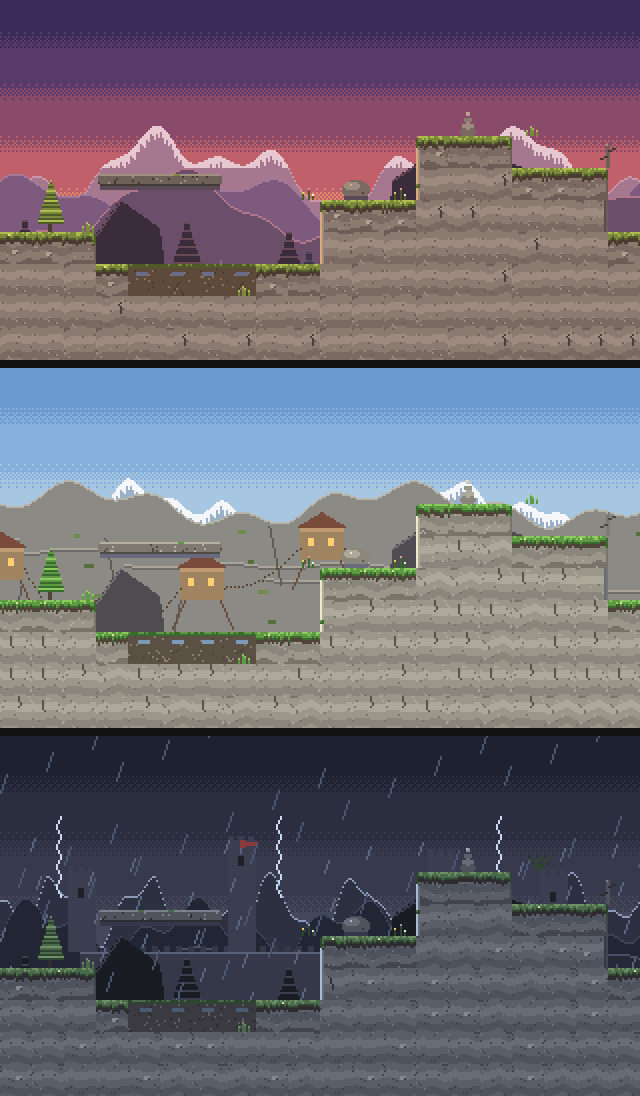
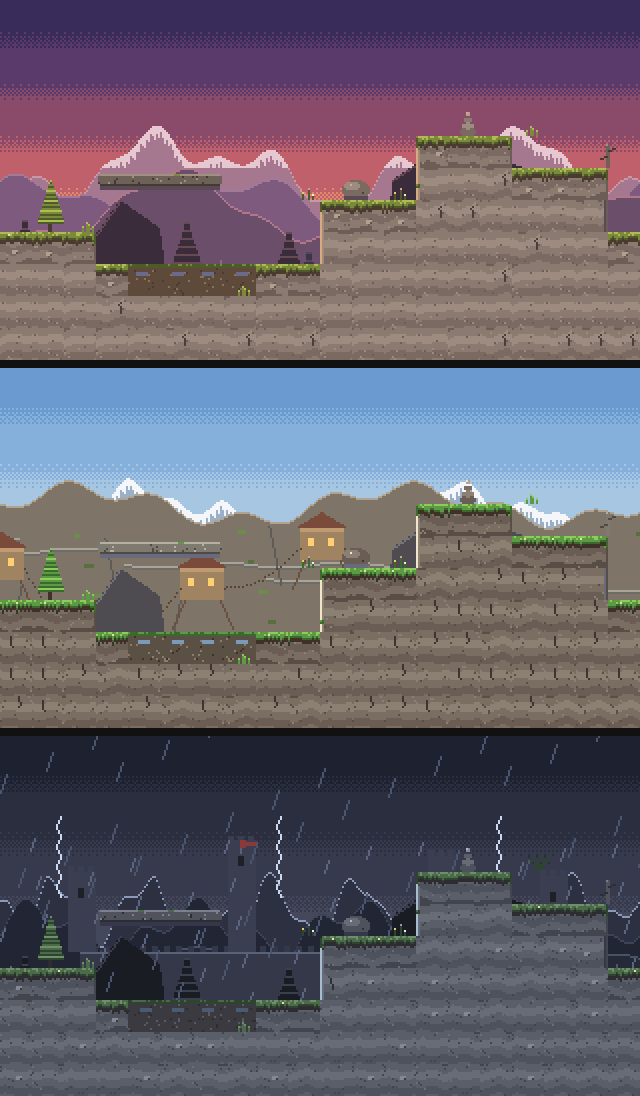
ART DIRECTION: TEN RULES MEASURED FROM THE LEVELS THAT LOOK FINISHED
tools/art-rules.py measures a screen's value spread, playfield/backdrop separation, chroma and warmth;
the best levels against the weak (42.6 vs 30.8 spread, 9.6 vs 4.8 separation, neutral vs cool).
docs/art-direction.md turns that into ten rules. They caught four of the redress passes, now fixed:
the Hanging Village's rock, the Undercrown's colour, Highcrown's torchlight, the forest store's floor.

Changed region(s): [[0.0, 0.4343, 1.0, 0.6825]]

diff --git a/src/redraw/redress2.js b/src/redraw/redress2.js
@@ -28,10 +28,10 @@ const arch = (g, x, y, w, h, col) => { rect(g, x, y + (w >> 1), w, h - (w >> 1),
 
 export const REDRESS_PAL = {
   castle: { stone: '#5e6878', stoneL: '#7a8698', stoneD: '#465060', mortar: '#343a46', floor: '#6a6e7a', floorL: '#8a8e9a', floorD: '#4a4e5a', rug: '#7a2a4a', rugL: '#a83e62', gold: '#d8b048', banner: '#6a2a5a', bannerL: '#9a3e84', torch: '#ffb85a', night: '#1a1e36', moon: '#e8ecff', plank: '#5e6878', plankL: '#8a94a4', plankD: '#343a46' },
-  undercrown: { stone: '#4e4640', stoneL: '#6a6058', stoneD: '#3a332e', mortar: '#26201c', floor: '#4a3e34', floorL: '#6a5a4a', floorD: '#2e2620', root: '#5a4632', rootL: '#7e6448', timber: '#6a5236', timberL: '#8e7050', timberD: '#3e2e1e', drip: '#6a8a9a', lamp: '#ffc860', plank: '#6a5236', plankL: '#8e7050', plankD: '#3e2e1e' },
+  undercrown: { stone: '#4e4640', stoneL: '#6a6058', stoneD: '#3a332e', mortar: '#26201c', floor: '#5a4430', floorL: '#86684a', floorD: '#34281e', root: '#7a4a32', rootL: '#a0643e', timber: '#6a5236', timberL: '#8e7050', timberD: '#3e2e1e', drip: '#6a8a9a', lamp: '#ffc860', plank: '#6a5236', plankL: '#8e7050', plankD: '#3e2e1e' },
   mage: { wall: '#2a2244', wallL: '#3a3058', wallD: '#1c1630', wood: '#4a3024', woodL: '#6a4630', woodD: '#2e1e16', books: ['#8a2a3a', '#2a5a8a', '#3a7a4a', '#9a7a2a', '#6a3a8a', '#8a5a3a'], gold: '#e8c24a', candle: '#fff0b0', flame: '#ffb84a', moon: '#dfe6ff', window: '#3a4a88' },
   monastery: { stone: '#d8c8a8', stoneL: '#f0e4c8', stoneD: '#a8987c', roof: '#8a3a2a', roofL: '#b04e36', flags: ['#e8c24a', '#c84a3a', '#3a8ac8', '#4aa86a', '#f0f0e0'], pine: '#2e5a3e', pineL: '#447a52', cloud: '#f4f6fa', cloudD: '#c8d4e4' },
-  shopWood: { wall: '#6a4a30', wallL: '#8a6440', wallD: '#4a3220', floor: '#7a5a3a', floorL: '#9a7650', floorD: '#4e3a26', shelf: '#5a3e28', stone: '#6e5a48', stoneL: '#8a7460', stoneD: '#4e3e32', mortar: '#3a2c22', plank: '#7a5a3a', plankL: '#9a7650', plankD: '#4e3a26', lamp: '#ffc860' },
+  shopWood: { wall: '#4e3622', wallL: '#6a4a30', wallD: '#36241a', floor: '#b08a58', floorL: '#d0aa72', floorD: '#7a5a3a', shelf: '#5a3e28', stone: '#6e5a48', stoneL: '#8a7460', stoneD: '#4e3e32', mortar: '#3a2c22', plank: '#7a5a3a', plankL: '#9a7650', plankD: '#4e3a26', lamp: '#ffc860' },
   shopCrag: { wall: '#5e5a60', wallL: '#7a7680', wallD: '#44404a', floor: '#6a6468', floorL: '#8a8488', floorD: '#48444a', shelf: '#5a4232', stone: '#5e5a60', stoneL: '#7a7680', stoneD: '#44404a', mortar: '#2e2c32', plank: '#6a6468', plankL: '#8a8488', plankD: '#48444a', lamp: '#ffc860' },
   shopSea: { wall: '#4a5a62', wallL: '#627680', wallD: '#34424a', floor: '#7a6448', floorL: '#9a8260', floorD: '#4e3e2c', shelf: '#5a4230', stone: '#4a5a62', stoneL: '#627680', stoneD: '#34424a', mortar: '#26303a', plank: '#7a6448', plankL: '#9a8260', plankD: '#4e3e2c', lamp: '#ffd070', brass: '#c8a040' },
 };
@@ -76,12 +76,17 @@ export function bakeRedressFar(theme) {
       circle(g, x + 7, 44, 4, P.moon); for (let k = 0; k < 5; k++) px(g, x + 3 + k * 5, 90 + (k % 2) * 8, '#8a90b8'); rect(g, x - 4, 120, 34, 4, '#5a6474'); }
     for (const x of [100, 210]) { rect(g, x, 20, 16, 70, P.banner); rect(g, x, 20, 16, 2, P.gold); fillPoly(g, [[x, 90], [x + 8, 82], [x + 16, 90]], '#4a5262'); rect(g, x + 2, 22, 1, 66, P.bannerL);
       ellipse(g, x + 8, 44, 4, 5, P.gold); ellipse(g, x + 8, 43, 2, 3, P.banner); }                      // the queen's banner: a gold crown-knot on plum
+    for (const x of [100, 210]) for (let dy = -30; dy <= 30; dy++) for (let dx = -30; dx <= 30; dx++) { const d = Math.hypot(dx, dy * 1.2) / 30; if (d >= 1) continue;   // torchlight pooled on the wall: a dithered warm glow, densest at the flame
+      const b = BAYER[((dy + 64) & 3) * 4 + ((dx + 64) & 3)] / 16; if (b < (1 - d) * 0.75) px(g, x + 8 + dx, 100 + dy, d < 0.35 ? '#c88a4a' : d < 0.65 ? '#9a6a48' : '#6e5650'); }
+    for (const x of [100, 210]) { rect(g, x + 6, 104, 4, 8, '#3a3030'); ellipse(g, x + 8, 100, 3, 5, P.torch); px(g, x + 8, 97, '#fff0c0'); }
     rect(g, 0, 150, 320, 30, '#3a4150'); rect(g, 0, 150, 320, 2, '#5a6474'); });
   if (theme === 'undercrown') return mk(320, 180, g => {                    // THE PIT: dark earth, the castle's foundation arches overhead, water finding its way down
     rect(g, 0, 0, 320, 180, '#1e1a18'); for (let k = 0; k < 300; k++) px(g, (rnd() * 320) | 0, (rnd() * 180) | 0, rnd() < 0.5 ? '#2a2420' : '#161210');
     for (const x of [0, 110, 220]) { courses(g, rnd, { stone: '#3e3834', stoneL: '#524a44', stoneD: '#2e2a26', mortar: '#1a1614' }, x + 10, 0, 90, 34, 12, 6); arch(g, x + 30, 18, 50, 40, '#1e1a18'); }
     for (let k = 0; k < 7; k++) { const x = 20 + k * 45; for (let y = 34, xx = x; y < 70 + (k % 3) * 20; y++) { px(g, xx, y, P.root); if (y % 6 === 0) xx += (k % 2) ? 1 : -1; } }
-    for (const x of [70, 190, 280]) for (let y = 40; y < 180; y += 9) px(g, x, y, P.drip); });
+    for (const x of [70, 190, 280]) for (let y = 40; y < 180; y += 9) px(g, x, y, P.drip);
+    for (let k = 0; k < 60; k++) { const x = (k * 53) % 320, y = 28 + (k * 7) % 12; rect(g, x, y, 3, 2, k % 3 ? '#4a6a34' : '#6a8a44'); }   // moss where the water runs off the foundations
+    for (const x of [40, 150, 260]) { for (let r = 22; r > 0; r -= 5) circle(g, x, 120, r, r > 16 ? '#2a2018' : r > 10 ? '#4a3420' : '#7a5228'); rect(g, x - 2, 116, 5, 7, '#2a2420'); rect(g, x - 1, 118, 3, 3, P.lamp); } });   // lamps hung on the shoring, each in its pool of light
   if (theme === 'mage') return mk(320, 90, g => {                           // THE TOWER'S HIGH WALL, far off: tall windows and the moon
     rect(g, 0, 20, 320, 70, P.wallD); for (const x of [30, 120, 210, 290]) { arch(g, x, 26, 16, 50, P.window); rect(g, x + 7, 26, 2, 50, P.wallD); } circle(g, 250, 12, 7, P.moon); });
   if (theme === 'monastery') return mk(320, 90, g => {                      // THE CLOUD SEA, and far peaks standing out of it

diff --git a/src/redraw/crag_redress.js b/src/redraw/crag_redress.js
@@ -19,7 +19,7 @@ import { canvas, px, rect, fillPoly, line, ellipse, circle, mulberry } from '../
 const T = 16;
 export const CRAG_PAL = {
   scree: { r: ['#8a7a70', '#9c8b7e', '#7a6a62', '#6c5d56'], crack: '#4a3e3a', peb: '#b0a090', pebD: '#5e514a', soil: '#4a3a30', grass: '#7a8a3a', grassL: '#b0bc50', grassD: '#4e5a2a', rim: '#d8aa7c', shade: '#5a4a58', mud: '#5e4a3a', mudL: '#8a7058', water: '#6a6a8a', plank: '#6e6258', plankL: '#a09080', plankD: '#443a34' },
-  hanging: { r: ['#9a968a', '#aca89a', '#8a867c', '#78746a'], crack: '#56524c', peb: '#c8c4b4', pebD: '#66625a', soil: '#4e4438', grass: '#5e9a44', grassL: '#8ccc5c', grassD: '#3a6a2e', rim: '#f0e6cc', shade: '#6a6a7e', mud: '#5a5044', mudL: '#8a7e6a', water: '#7a9ab8', plank: '#7e7a70', plankL: '#b4b0a2', plankD: '#4e4a44' },
+  hanging: { r: ['#7a6e62', '#8c8072', '#6a5e54', '#584e46'], crack: '#3e362e', peb: '#b0a490', pebD: '#4e463e', soil: '#3e3228', grass: '#5e9a44', grassL: '#8ccc5c', grassD: '#3a6a2e', rim: '#f0e6cc', shade: '#6a6a7e', mud: '#5a5044', mudL: '#8a7e6a', water: '#7a9ab8', plank: '#7e7a70', plankL: '#b4b0a2', plankD: '#4e4a44' },
   storm: { r: ['#5a5e68', '#686c76', '#4e525c', '#42454e'], crack: '#2e3038', peb: '#848894', pebD: '#383a42', soil: '#2e2c30', grass: '#4a6a4a', grassL: '#6e9068', grassD: '#2e4430', rim: '#a8bcd0', shade: '#34384a', mud: '#3a3a40', mudL: '#5a5a64', water: '#4a5a70', plank: '#50535c', plankL: '#7c808c', plankD: '#2c2e34' },
 };
 const tile = fn => { const [c, g] = canvas(T, T); fn(g); return c; };
@@ -100,7 +100,7 @@ export function bakeCragMid(theme = 'scree') {
     for (let k = 0; k < 26; k++) { const x = (k * 37 + 11) % W, b = 90 + ((k * 13) % 40); pine(g, x, b, 12 + (k % 4) * 3, '#3e3448', '#54465e'); }
     rect(g, 330, 58, 10, 26, '#5a4458'); rect(g, 328, 56, 14, 3, '#6e5470'); rect(g, 333, 64, 3, 5, '#2a2030'); px(g, 334, 66, '#ffc860');   // a ruined watchtower, one lamp still lit
   } else if (theme === 'hanging') {
-    range(g, W, H, x => 18 + 8 * per(W, 3, x) + 4 * per(W, 11, x, 1), '#8c8a84', '#b8b4a8', null, 0);                          // the cliff face the village hangs on
+    range(g, W, H, x => 18 + 8 * per(W, 3, x) + 4 * per(W, 11, x, 1), '#7e7468', '#b0a490', null, 0);                          // the cliff face the village hangs on (warm, and a step darker than the sky)
     for (let k = 0; k < 16; k++) { const y = 34 + k * 7, x0 = (k * 71) % W; for (let x = 0; x < 90 + (k % 3) * 30; x++) { px(g, (x0 + x) % W, y + Math.round(Math.sin(x * 0.1) * 1.5), '#a8a498'); px(g, (x0 + x) % W, y + 1 + Math.round(Math.sin(x * 0.1) * 1.5), '#6e6c66'); } }   // ledges along the strata, lit over shaded
     for (let k = 0; k < 40; k++) { const x = (k * 97) % W, y = 30 + (k * 43) % 100; rect(g, x, y, 3 + (k % 3), 2, k % 2 ? '#6e8a4c' : '#587040'); }   // moss and scrub in the cracks
     for (let k = 0; k < 12; k++) { let x = (k * 41 + 9) % W; for (let y = 24 + (k * 17) % 40, n = 0; n < 30; y++, n++) { px(g, x, y, '#5e5c58'); if (n % 5 === 0) x += (k % 2) ? 1 : -1; } }   // cracks down the face

diff --git a/tools/art-rules.py b/tools/art-rules.py
@@ -1,0 +1,25 @@
+# measure every level's screenshots (work/audit/NN-id-j.jpg, 640x360): lightness spread, chroma, the playfield's separation from the backdrop, warmth
+import glob, re, json, numpy as np
+from PIL import Image
+def lab(rgb):
+    c = rgb / 255.0; c = np.where(c <= 0.04045, c / 12.92, ((c + 0.055) / 1.055) ** 2.4)
+    X = c[..., 0] * .4124 + c[..., 1] * .3576 + c[..., 2] * .1805; Y = c[..., 0] * .2126 + c[..., 1] * .7152 + c[..., 2] * .0722; Z = c[..., 0] * .0193 + c[..., 1] * .1192 + c[..., 2] * .9505
+    f = lambda t: np.where(t > 0.008856, np.cbrt(t), 7.787 * t + 16 / 116)
+    fx, fy, fz = f(X / .9505), f(Y), f(Z / 1.089)
+    return 116 * fy - 16, 500 * (fx - fy), 200 * (fy - fz)
+BEST = {'wood', 'marsh', 'kings', 'spore', 'stockade', 'longwater', 'flotilla', 'waymeet', 'fields', 'underleaf', 'moor', 'reef', 'hurricane', 'lamplit'}
+WEAK = {'shop', 'shopCrag', 'shopSea', 'crown', 'harbor', 'undercrown', 'hanging', 'scree', 'storm', 'mage', 'fallingtower', 'burial', 'spire'}
+rows = {}
+for p in sorted(glob.glob('work/audit/[0-9][0-9]-*-[0-9].jpg')):
+    import os; m = re.match(r'(\d\d)-(.+)-(\d)\.jpg', os.path.basename(p)); lv = m.group(2)
+    a = np.asarray(Image.open(p).convert('RGB')).astype(float)[40:330]          # below the HUD plates, above the bottom bar
+    L, A, B = lab(a); C = np.hypot(A, B); H = a.shape[0]
+    top, bot = L[: int(H * 0.45)], L[int(H * 0.62):]                              # the backdrop band, the ground band
+    r = rows.setdefault(lv, {'spread': [], 'chroma': [], 'sep': [], 'warm': [], 'lit': []})
+    r['spread'].append(float(np.percentile(L, 90) - np.percentile(L, 10))); r['chroma'].append(float(np.median(C)))
+    r['sep'].append(float(abs(np.median(top) - np.median(bot)))); r['warm'].append(float(np.mean(B > 12) - np.mean(B < -8)))
+    r['lit'].append(float(np.mean((L > 70) & (B > 20))))                           # warm highlights: lamps, fire, sunlit edges
+out = {lv: {k: round(float(np.mean(v)), 3) for k, v in r.items()} for lv, r in rows.items()}
+def group(names): g = [out[n] for n in names if n in out]; return {k: round(float(np.mean([x[k] for x in g])), 3) for k in g[0]}
+print(json.dumps({'best': group(BEST), 'weak': group(WEAK)}, indent=1))
+for lv, v in sorted(out.items(), key=lambda kv: kv[1]['spread']): print(f"{lv:13s} {'BEST' if lv in BEST else 'weak' if lv in WEAK else '    '} spread {v['spread']:5.1f}  chroma {v['chroma']:5.1f}  sep {v['sep']:5.1f}  warm {v['warm']:+.2f}  lit {v['lit']:.3f}")

diff --git a/docs/art-direction.md b/docs/art-direction.md
@@ -1,0 +1,41 @@
+# BRACKEN's art direction: the rules, measured (2026-09-22)
+
+Measured from the game's own screenshots (`docs/audit/sheet-*.jpg`; `python tools/art-rules.py` re-measures them), comparing the levels
+that look finished with the ones that look like placeholders (`docs/visual-audit.md`). Every rule below is what the good levels already
+do and the weak ones don't. **New art should pass them before it ships; so should anything redrawn.**
+
+| | best levels (14) | weak levels (13) |
+|---|---|---|
+| value spread (L* from the 10th to the 90th percentile of a screen) | **42.6** | 30.8 |
+| separation (the ground band against the backdrop band, L*) | **9.6** | 4.8 |
+| chroma (median saturation) | 10.8 | 9.2 |
+| warmth (share of warm pixels minus cool) | **0.0** | -0.14 |
+
+## The rules
+1. **A day screen spans at least 35 L\*.** Its darkest ground and its lightest sky are far apart. The weak crag levels sat at 27-38 on a
+   single dusk purple.
+2. **A night or interior screen may span 22-30 L\*, but it must carry POOLS OF WARM LIGHT** (lamps, fires, windows): Underleaf, the
+   Stockade and the Lamplit Street look good at 22-29 because their lamps do the work. A dark screen without them reads as murk
+   (the Keep, the Deep, the shops, Highcrown).
+3. **The playfield stands off its backdrop by at least 6 L\*.** The ground, ledges and foes live in one value band and the backdrop
+   in another. Day: the backdrop lighter and hazier (less saturated) than the ground. Interiors: the back wall darker than the floor. The
+   best levels average 9.6, the weak 4.8; the Flotilla and the Long Water, the two best-looking of all, 24-27.
+4. **Median chroma of at least 7.** Below it a screen reads washed out: the Monastery (5.3) is the case.
+5. **Every cool level gets a warm accent, and every warm level a cool one.** One temperature everywhere is flat. The weak levels lean
+   cool (-0.14) with nothing to answer it.
+6. **Light comes from above and the west.** Lit top-left edges, shaded bottom-right: tiles, props and sprites. (The redress sets and the
+   foe redraws already follow it.)
+7. **Characters are outlined; scenery is not.** Foes and heroes carry the dark outline (`OUT`); scenery outlines are removed
+   (tools/readability.mjs already asserts this). The outline separates a character from anything behind it.
+8. **A foe must not vanish into its level.** No more than 45% of a level's backdrop within 12 L\* of a foe's body; where it is, the
+   level bakes a contrast rim (`src/contrast-rim.js`, `docs/sprite-quality-audit.md`).
+9. **A size ladder.** The hero is ~16-18 px tall. Common foes 10-26 px, elites a head taller, minis 32-48, bosses 48-80. A boss that is
+   not twice the hero's height does not read as a boss.
+10. **A tell is bigger than its blow.** The wind-up pose opens the silhouette (arms up, weapon back, a lit accent in the house mark's
+   colour); the strike can be quick and small.
+
+## Held against the new art
+The redress scenes, measured the same way (`docs/crag-redress.png`, `docs/redress2.png`): the Scree Path, Stormhold and the castle go from
+3-7 separation to 14-22. The rules caught four of my own first passes, now fixed: the Hanging Village was washed out (spread 14 -> 30,
+separation 8 -> 23 with a warmer, darker rock under its pale morning), the Undercrown colourless (moss, rust-red roots, lamp pools),
+Highcrown's hall cold all over (dithered torchlight pooled under the banners), and the forest store's floor the same brown as its wall.
